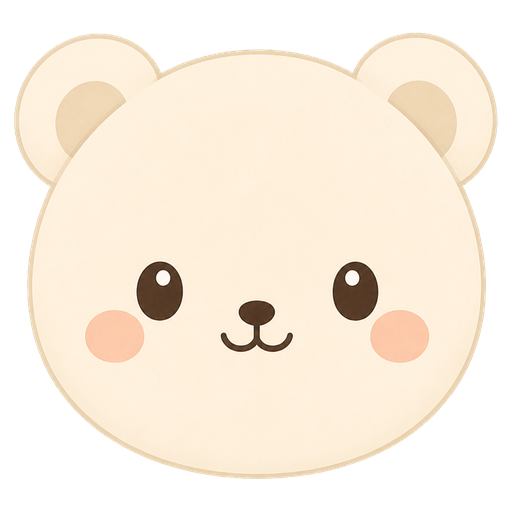
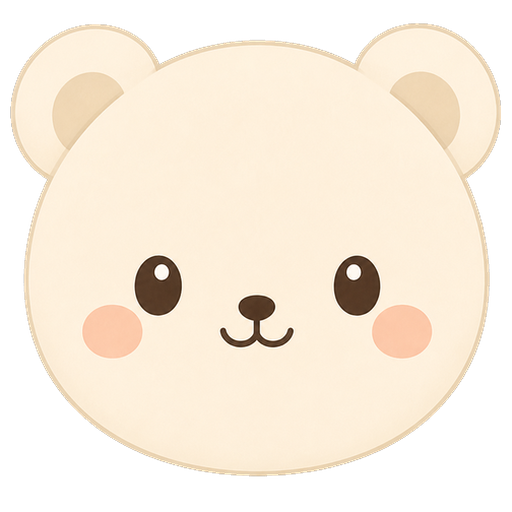
Deploy Kindsem UI and rates to kindsem.com.

diff --git a/components/sena.tsx b/components/sena.tsx
@@ -65,13 +65,13 @@ export function SenaFigure({
   priority?: boolean
 }) {
   return (
-    <figure className="w-[5.25rem] shrink-0 bg-transparent sm:w-24 md:w-28 lg:w-[7.25rem]">
+    <figure className="w-[5.5rem] shrink-0 -translate-x-1 bg-transparent sm:w-[6.75rem] sm:-translate-x-2 md:w-32 md:-translate-x-3 lg:w-[8.75rem]">
       <Sena
         variant={variant}
         className={variant === "calc" ? "sena-calc" : "sena-bob"}
         priority={priority}
       />
-      <figcaption className="mt-1.5 text-center">
+      <figcaption className="mt-1 text-center">
         <span className="block text-[11px] font-semibold tracking-tight text-foreground">
           {MASCOT.name}
         </span>

diff --git a/components/site-header.tsx b/components/site-header.tsx
@@ -14,7 +14,7 @@ export function SiteHeader() {
       data-site-header
       className="sticky top-0 z-30 overflow-visible border-b border-border bg-background/90 backdrop-blur-md"
     >
-      <div className="mx-auto flex h-[var(--site-header-h)] max-w-5xl items-center gap-0.5 overflow-visible px-3 sm:gap-2 sm:px-4">
+      <div className="mx-auto flex h-[var(--site-header-h)] max-w-5xl items-center gap-0.5 overflow-visible px-2.5 sm:gap-2 sm:px-4">
         <BrandLink />
         <nav aria-label="계산 분류" className="ml-auto flex min-w-0 items-center gap-0 text-sm sm:gap-0.5">
           <TodayMenu />

diff --git a/app/page.tsx b/app/page.tsx
@@ -35,7 +35,7 @@ export default function HomePage() {
   return (
     <div className="mx-auto w-full max-w-5xl px-4 py-8 md:py-12">
       <JsonLd data={homeJsonLd()} />
-      <section className="flex items-center gap-4 sm:gap-6 md:gap-8">
+      <section className="flex items-end gap-3 pr-1 sm:gap-4 sm:pr-6 md:gap-5 md:pr-10 lg:pr-14">
         <div className="min-w-0 flex-1">
           <p className="text-sm font-medium text-primary">생활 · 급여 · 부동산</p>
           <h1 className="mt-2 text-[1.7rem] font-semibold tracking-tight sm:text-3xl md:text-4xl">

diff --git a/components/brand-mark.tsx b/components/brand-mark.tsx
@@ -8,7 +8,7 @@ export function BrandMark() {
     <span className="flex items-center gap-2 sm:gap-2.5">
       <Sena
         variant="face"
-        className="size-9 shrink-0 overflow-hidden rounded-full object-cover sm:size-10"
+        className="-ml-0.5 size-8 shrink-0 overflow-hidden rounded-full object-cover sm:size-9"
         priority
       />
       <span className="flex min-w-0 flex-col justify-center leading-none">

diff --git a/components/calc/calc-shell.tsx b/components/calc/calc-shell.tsx
@@ -57,7 +57,7 @@ export function CalcShell({
         <ArrowLeft className="size-4" />
         {backLabel}
       </Link>
-      <div className="mb-4 flex items-start justify-between gap-4">
+      <div className="mb-4 flex items-end gap-3 pr-1 sm:gap-4 sm:pr-6 md:pr-10 lg:pr-14">
         <div className="min-w-0 flex-1">
           <p className="text-sm text-primary">
             {realty
